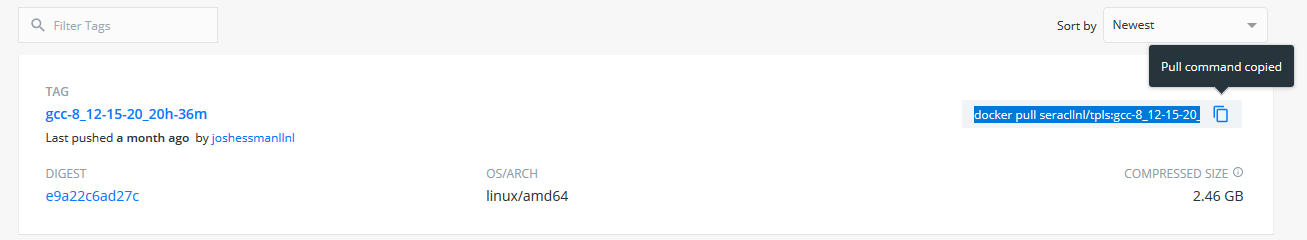
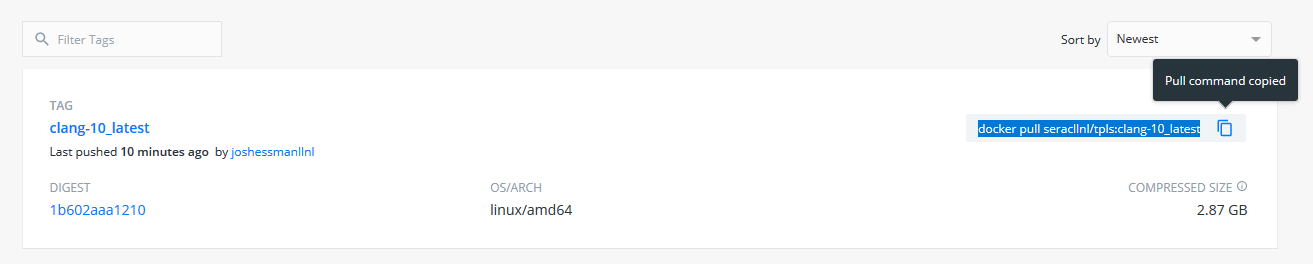
ci: use new docker images with latest tag

diff --git a/src/docs/sphinx/dev_guide/docker_dev_env.rst b/src/docs/sphinx/dev_guide/docker_dev_env.rst
@@ -13,8 +13,8 @@ If you haven't used Docker before, it is recommended that you check out the
 1. Clone a copy of the Serac repo to your computer: ``git clone --recursive https://github.com/LLNL/serac.git``
 
 #. Once you've installed ``docker``, navigate to our `Dockerhub page <https://hub.docker.com/r/seracllnl/tpls/tags?page=1&ordering=last_updated>`_
-   and select find the most recent image corresponding to the compiler you'd like to use.  Clang 10 and GCC 8 images are currently offered.
-#. Copy the pull command corresponding to the image you've selected (in this case, it's ``docker pull seracllnl/tpls:gcc-8_12-15-20_20h-36m``):
+   and select the most recent image corresponding to the compiler you'd like to use.  Clang 10 and GCC 8 images are currently offered.
+#. Copy the pull command corresponding to the image you've selected (in this case, it's ``docker pull seracllnl/tpls:clang-10_latest``):
 
 .. image:: copy_pull_cmd.png
    :scale: 50 %
@@ -24,8 +24,8 @@ If you haven't used Docker before, it is recommended that you check out the
 
 .. image:: pull_complete.png
 
-5. You can now run the image.  Run ``docker run -it -u serac -v /your/serac/repo:/home/serac/serac seracllnl/tpls:gcc-8_12-15-20_20h-36m bash``,
-   replacing the tag (the compiler/timestamp combo following the ``tpls:``) with the tag you used in the ``docker pull`` command and
+5. You can now run the image.  Run ``docker run -it -u serac -v /your/serac/repo:/home/serac/serac seracllnl/tpls:clang-10_latest bash``,
+   replacing the tag (the compiler name following the ``tpls:``) with the tag you used in the ``docker pull`` command and
    replacing ``/your/serac/repo`` with the path to the Serac repo you cloned in the first step.  This will open a terminal into the image.
 
 .. note::
